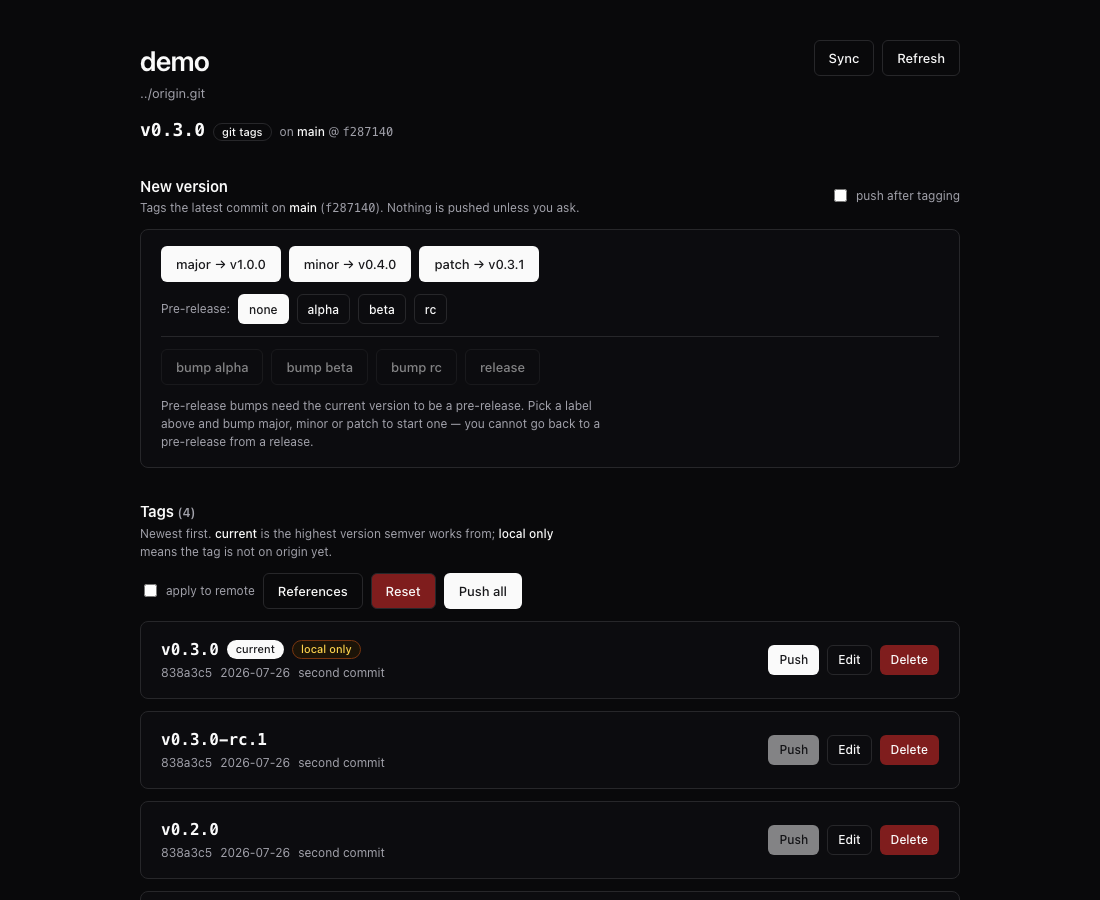
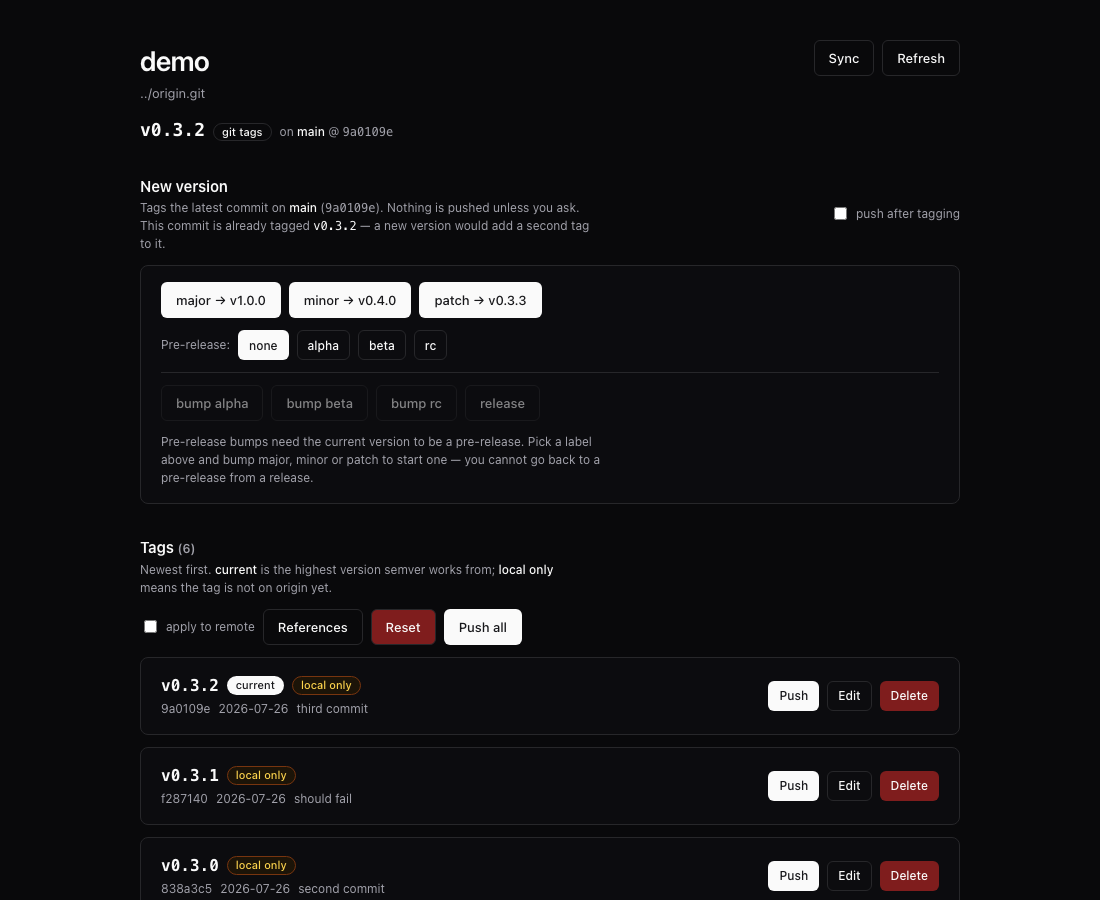
chore: ui tweaks

diff --git a/repo.go b/repo.go
@@ -208,8 +208,8 @@ func ListTags() ([]Tag, error) {
 	return tags, nil
 }
 
-// Head is the commit a new tag would be created on. Tags lists the tags that
-// already point at it.
+// Head is the commit a new tag would be created on. Tags lists the semver tags
+// already pointing at it.
 type Head struct {
 	Branch  string   `json:"branch"`
 	Commit  string   `json:"commit"`
@@ -225,8 +225,14 @@ func HeadCommit() Head {
 	head.Commit, _ = git("rev-parse", "--short", "HEAD")
 	head.Subject, _ = git("log", "-1", "--pretty=%s")
 
+	// --points-at resolves annotated tags to their commit, which comparing
+	// object names would not.
 	if out, err := git("tag", "--points-at", "HEAD"); err == nil {
-		head.Tags = strings.Fields(out)
+		for _, name := range strings.Fields(out) {
+			if _, err := ParseSemver(name); err == nil {
+				head.Tags = append(head.Tags, name)
+			}
+		}
 	}
 
 	return head

diff --git a/README.md b/README.md
@@ -135,7 +135,8 @@ semver ui
 semver ui
 
 The header shows the repository name, its origin url, the current version and
-the branch and commit a new tag would land on. Each semver tag is a card marked
+the branch and commit a new tag would land on — including a note when that
+commit already carries a tag. Each semver tag is a card marked
 `current` (the highest version) and `local only` when it has not been pushed
 yet, with per-tag **Push**, **Edit** (rename the tag on the same commit) and
 **Delete** actions.
